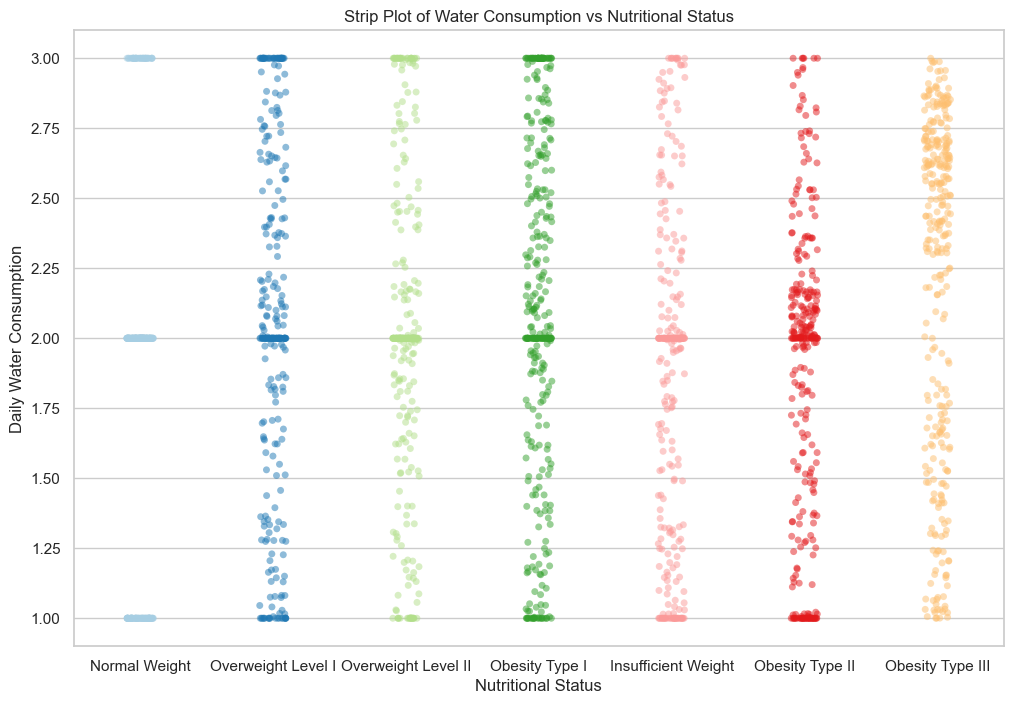
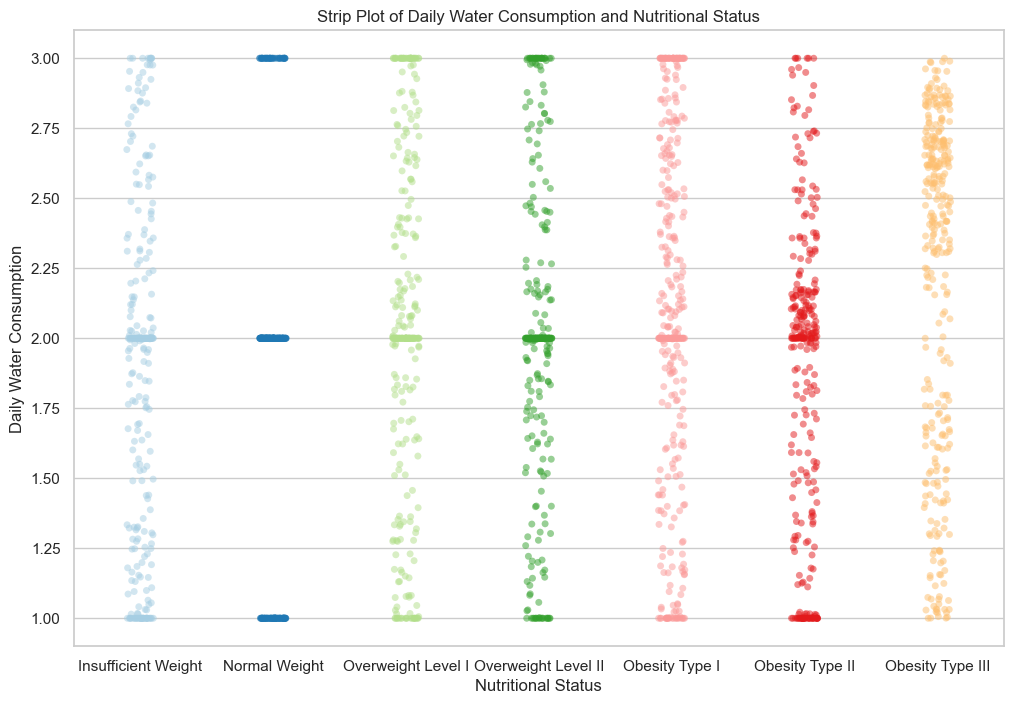
modified water consumption graph

diff --git a/analisi_descrittiva.py b/analisi_descrittiva.py
@@ -147,6 +147,7 @@ def plot_scatterplot():
     plt.savefig('grafici/Scatter Plot', bbox_inches='tight')
     plt.show()
 
+
 def strip_plot(df):
     variables = df[['Physical Activity Frequency', 'Transportation Used', 'Nutritional Status']]
     colors = sns.color_palette('Paired')[0:7]
@@ -188,6 +189,7 @@ def join_plot(df):
     plt.savefig('grafici/Join Plot.png', bbox_inches='tight')
     plt.show()
 
+
 def waffle_chart(column):
     values = obesity[column].value_counts()
     df = {
@@ -217,8 +219,9 @@ def strip_plot_water(df):
     sns.set(style="whitegrid")
     plt.figure(figsize=(12, 8))
     colors = sns.color_palette('Paired')[0:7]
-    sns.stripplot(x='Nutritional Status', y='Daily Water Consumption', data=df, palette=colors, jitter=True, alpha=0.5)
-    plt.title('Strip Plot of Water Consumption vs Nutritional Status')
+    sns.stripplot(x='Nutritional Status', y='Daily Water Consumption', data=df, palette=colors, jitter=True, alpha=0.5,
+                  order=order)
+    plt.title('Strip Plot of Daily Water Consumption and Nutritional Status')
     plt.savefig('grafici/water consumption.png', bbox_inches='tight')
     plt.show()
 
@@ -234,10 +237,3 @@ def strip_plot_water(df):
 #join_plot(obesity_replaced)
 #waffle_chart("High Caloric Food Consumption")
 strip_plot_water(obesity_replaced)
-
-
-
-
-
-
-
